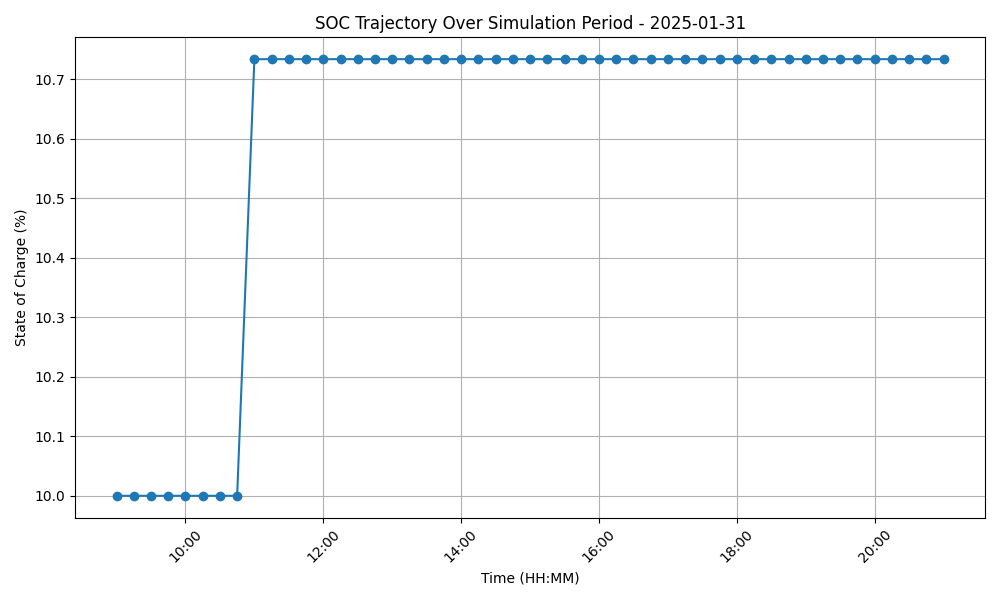
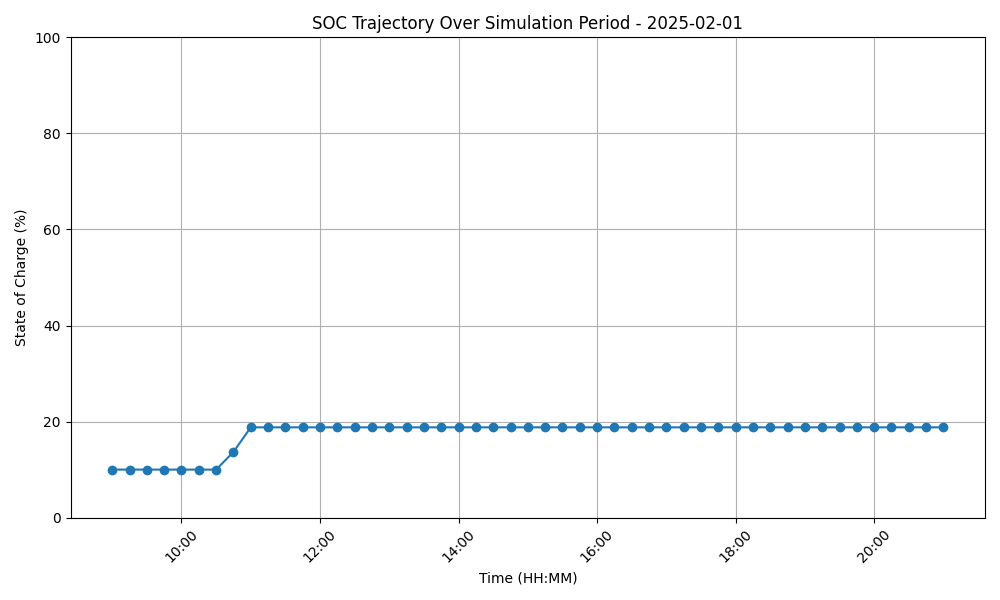
sample script, plot ylim
a sample script is created, a ylim is added to the result plot

diff --git a/sample/sample.py b/sample/sample.py
@@ -1,5 +1,5 @@
 '''
-    test.py is a test file for the project.
+    sample.py is a sample file for the project.
     Author: Oguzhan Yuksel
 '''
 import sys
@@ -7,20 +7,6 @@ import os
 
 sys.path.append(os.path.abspath(os.path.join(os.path.dirname(__file__), '..')))
 from utils import *  
-
-# Create instances
-ev = ElectricVehicle()
-charging_unit = ChargingUnit()
-
-# Test instances
-print(ev.__str__())
-print(charging_unit.__str__())
-# Test charge() method of ElectricVehicle class
-ev.charge(10)
-print(ev.__str__())
-# Test charge_vehicle() method of ChargingUnit class
-charging_unit.charge_vehicle(ev, 1)
-print(ev.__str__())
 
 # User input for connection and disconnection times
 connection_time_str = input("Enter connection time (YYYY-MM-DD HH:MM): ")
@@ -30,14 +16,16 @@ disconnection_time_str = input("Enter disconnection time (YYYY-MM-DD HH:MM): ")
 connection_time = datetime.strptime(connection_time_str, "%Y-%m-%d %H:%M")
 disconnection_time = datetime.strptime(disconnection_time_str, "%Y-%m-%d %H:%M")
 
+# Create instances
+ev = ElectricVehicle() # if not specified, battery_capacity=50, max_power_capacity=11, state_of_charge=0.1
+charging_unit = ChargingUnit() # if not specified, max_output=22
+simulation = Simulation(connection_time, disconnection_time) # if not specified, interval_minutes=15
+
 # Run simulation with user-defined connection and disconnection times
-ev = ElectricVehicle()
-charging_unit = ChargingUnit()
-simulation = Simulation(connection_time, disconnection_time)
-simulation.run(ev, charging_unit)
+simulation.run(ev, charging_unit) 
 
 # Get results as DataFrame
-results_df = simulation.get_results()
+results_df = simulation.get_results() # if not specified, results are saved at './results/'
 
 # Print results
 print(results_df)

diff --git a/utils/utils.py b/utils/utils.py
@@ -116,6 +116,7 @@ class Simulation:
         plt.plot(self.result['Timestamp'], self.result['SOC (%)'], marker='o', linestyle='-')
         plt.xlabel('Time (HH:MM)')
         plt.ylabel('State of Charge (%)')
+        plt.ylim(0, 100)
         plt.title(f'SOC Trajectory Over Simulation Period - {self.simulation_start_time.date()}')
         plt.grid(True)
         plt.xticks(rotation=45)
